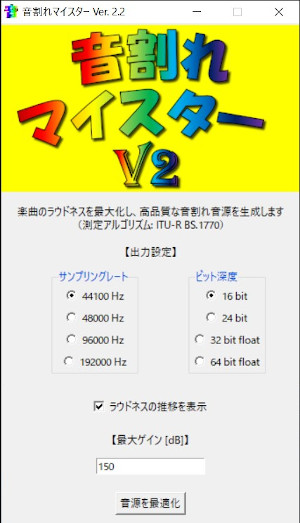
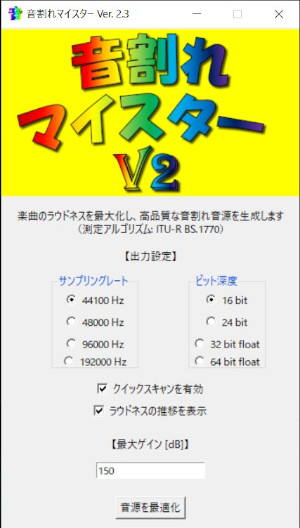
updeta_クイックスキャン機能の追加

diff --git a/音割れマイスター_V2.py b/音割れマイスター_V2.py
@@ -1,28 +1,7 @@
 # coding: UTF-8
 
-##################################################
-# 
-# 【Readme】 
-# 音割れマイスター V2では、
-# 人間の聴覚特性を考慮した音のうるささを測る指標「ラウドネス」を用いて、
-# 人間が最もうるさいと感じる真の音割れ音源の生成します
-# （測定アルゴリズム: ITU-R BS.1770）
-# 
-# ・V1との変更点
-#   - 音声処理にFFmpegを使用
-#   - GUIの作成
-#   - ハイレゾ対応
-#
-# 音割れ音源は耳に悪いだけでなく、再生機器にもダメージを与える危険があります
-# 本アプリによっていかなる損害等が発生したとしても、製作者は一切の責任を負いかねます
-# 
-# いっぺー (Twitter: @ippee1410)
-# 
-##################################################
-
 import soundfile as sf
 import pyloudnorm as pyln
-from subprocess import call
 import os
 import sys
 import tkinter as tk
@@ -31,7 +10,7 @@ import tkinter.messagebox
 import tkinter.ttk as ttk
 from matplotlib import pyplot
 
-ver = "Ver. 2.2"
+ver = "Ver. 2.3"
 
 ### 関数定義 ###
 # リソースファイルを参照する関数（参考：https://qiita.com/firedfly/items/f6de5cfb446da4b53eeb）
@@ -45,7 +24,7 @@ def resource_path(relative_path):
 def audioWrite(input, output, volume, sample, bit): # input, outputは拡張子込み
     input = '"{}"'.format(input)
     cmd = 'ffmpeg -hide_banner -i {} -ar {} -c:a pcm_{} -af "volume = {} dB" {}'.format(input, sample, bit, volume, output)
-    call(cmd)
+    os.system(cmd)
 
 
 # ラウドネスを測定する関数
@@ -56,8 +35,58 @@ def measureLoudness(input):
     return result
 
 
+# 音声処理をする関数
+def AudioAnalyze(bln, n, sample, bit):
+    if bln == False: # クイックスキャン無効時の音声処理
+        first_or_mid = ""
+        LUFS = [0 for i in range(n)] # ラウドネスの測定結果をLUFSに代入していく
+        for i in range(n):
+                print("+ {} dB".format(i))
+                audioWrite("srcWav.wav", "processing.wav", i, sample, bit) # i[dB]だけ音量を上げる
+                LUFS[i] = measureLoudness("processing.wav") # 音量操作後のIntegrated Loudnessを測定
+                os.remove("processing.wav") # ファイルの上書きができないので、ファイルを消す必要がある
+
+        max_value = max(LUFS) # ラウドネスの最大値を取得
+        max_index = LUFS.index(max_value) # そのインデックスを取得
+
+    else: # クイックスキャン有効時の音声処理
+        # 1, 最大ゲインの半分あたりのLUFSを２つ取得（testLUFS[round(n/2)], testLUFS[round(n/2)+1]）
+        # 2, 前者より後者の方が小さければ、ゲインをマイナスしていって最大値を求める
+        # 3, それ以外は、ゲインをプラスしていって最大値を求める
+
+        testLUFS = [0,0]
+        for i in [0, 1]:
+            print("+ {} dB".format(round(n/2)+i))
+            audioWrite("srcWav.wav", "processing.wav", round(n/2)+i, sample, bit) # i[dB]だけ音量を上げる
+            testLUFS[i] = measureLoudness("processing.wav") # 音量操作後のIntegrated Loudnessを測定
+            os.remove("processing.wav") # ファイルの上書きができないので、ファイルを消す必要がある
+        
+        LUFS = [0 for i in range(round(n/2))] # ラウドネスの測定結果をLUFSに代入していく
+        if testLUFS[0] > testLUFS[1]:
+            first_or_mid = "first"
+            for i in range(round(n/2)):
+                print("+ {} dB".format(i))
+                audioWrite("srcWav.wav", "processing.wav", i, sample, bit) # i[dB]だけ音量を上げる
+                LUFS[i] = measureLoudness("processing.wav") # 音量操作後のIntegrated Loudnessを測定
+                os.remove("processing.wav") # ファイルの上書きができないので、ファイルを消す必要がある
+            max_value = max(LUFS) # ラウドネスの最大値を取得
+            max_index = LUFS.index(max_value) # そのインデックスを取得
+        else:
+            first_or_mid = "mid"
+            for i in range(round(n/2)):
+                print("+ {} dB".format(round(n/2)+i))
+                audioWrite("srcWav.wav", "processing.wav", round(n/2)+i, sample, bit) # i[dB]だけ音量を上げる
+                LUFS[i] = measureLoudness("processing.wav") # 音量操作後のIntegrated Loudnessを測定
+                os.remove("processing.wav") # ファイルの上書きができないので、ファイルを消す必要がある
+            max_value = max(LUFS) # ラウドネスの最大値を取得
+            max_index = round(n/2) + LUFS.index(max_value) # そのインデックスを取得
+    
+    return LUFS, max_value, max_index, first_or_mid
+
+
+
 # ボタンを押したときに動く関数
-def AudioProcessing(n, sample, bit, blnLoud):
+def AudioProcessing(n, sample, bit, blnPlot, blnQuick):
     # ボタン止める
     global button
     button.config(state="disable", text="処理中……")
@@ -77,20 +106,12 @@ def AudioProcessing(n, sample, bit, blnLoud):
     LUFS_start = measureLoudness("srcWav.wav") # 原曲のIntegrated Loudnessを測定
 
     # 音声処理
-    LUFS = [[] for i in range(n)] # ラウドネスの測定結果をLUFSに代入していく
-    
-    for i in range(n):
-        print("+ {} dB".format(i))
-        audioWrite("srcWav.wav", "processing.wav", i, sample, bit) # i[dB]だけ音量を上げる
-        LUFS[i] = measureLoudness("processing.wav") # 音量操作後のIntegrated Loudnessを測定
-        os.remove("processing.wav") # ファイルの上書きができないので、ファイルを消す必要がある
+    LUFS, max_value, max_index, first_or_mid = AudioAnalyze(blnQuick, n, sample, bit)
 
     # 音声出力
-    max_value = max(LUFS) # ラウドネスの最大値を取得
-    max_index = LUFS.index(max_value) # そのインデックスを取得
-
     if os.path.exists("音割れ"+FileName+".wav") == True:
         os.remove("音割れ"+FileName+".wav")
+    print("+ {} dB".format(max_index))
     audioWrite("srcWav.wav", '"音割れ{}.wav"'.format(FileName), max_index, sample, bit)
     os.remove("srcWav.wav")
 
@@ -99,8 +120,13 @@ def AudioProcessing(n, sample, bit, blnLoud):
 
     # 結果表示
     tkinter.messagebox.showinfo("音割れ完了", "ラウドネスを最大化しました\n\n" + "・Before: " + str(round(LUFS_start, 3)) + " LUFS\n" + "・After: " + str(round(max_value, 3)) + " LUFS\n" + "・音量変化: +" + str(max_index) + "dB")
-    if blnLoud == True:
-        x = [i+1 for i in range(n)]
+    if blnPlot == True:
+        if first_or_mid == "first":
+            x = [i for i in range(round(n/2))]
+        elif first_or_mid == "mid":
+            x = [round(n/2)+i for i in range(round(n/2))]
+        else:
+            x = [i for i in range(n)]
         pyplot.plot(x, LUFS) # ラウドネスの変化をグラフで表示
         pyplot.xlabel("Gain [dB]")
         pyplot.ylabel("Loudness [LUFS]")
@@ -134,8 +160,10 @@ if os.path.exists("srcWav.wav") == True:
     os.remove("srcWav.wav") 
 
 # 変数設定
-blnLoud = tk.BooleanVar()
-blnLoud.set(True) # ラウドネスの推移を表示するか否か
+blnPlot = tk.BooleanVar()
+blnPlot.set(True) # ラウドネスの推移を表示するか否か
+blnQuick = tk.BooleanVar()
+blnQuick.set(True) # クイックスキャンを有効にするか否か
 sample = tk.IntVar()
 sample.set(44100) # サンプリングレートの初期値
 n = 151 # 最大ゲインの初期値
@@ -146,7 +174,7 @@ bit.set("s16le") # ビット深度の初期値
 def pushed():
     global dB
     n = dB.get()
-    AudioProcessing(int(n)+1, sample.get(), bit.get(), blnLoud.get())
+    AudioProcessing(int(n)+1, sample.get(), bit.get(), blnPlot.get(), blnQuick.get())
 
 button = tk.Button(root, text="音源を最適化")
 button.config(command=pushed)
@@ -160,8 +188,10 @@ opt1 = tk.Label(root, text="\n【最大ゲイン [dB]】")
 opt1.pack(side="bottom")
 
 # ラウドネスの推移の表示
-c1 = tk.Checkbutton(root, text="ラウドネスの推移を表示", variable=blnLoud)
+c1 = tk.Checkbutton(root, text="ラウドネスの推移を表示", variable=blnPlot)
 c1.pack(side="bottom")
+c2 = tk.Checkbutton(root, text="クイックスキャンを有効", variable=blnQuick)
+c2.pack(side="bottom")
 
 # 出力設定
 opt2 = tk.Label(root, text="【出力設定】")
